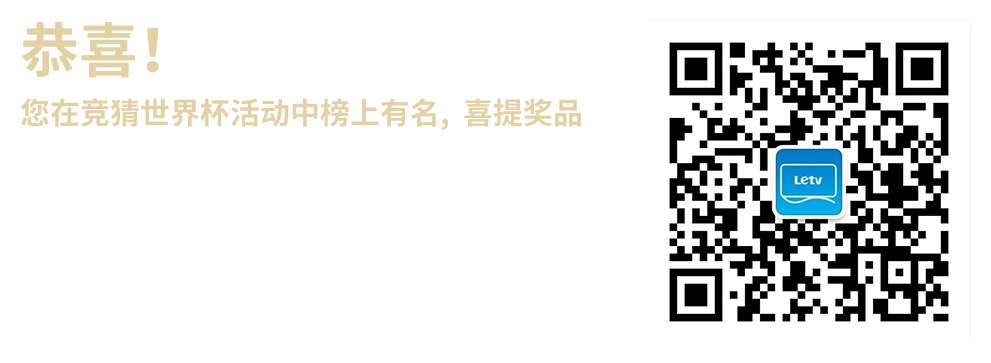
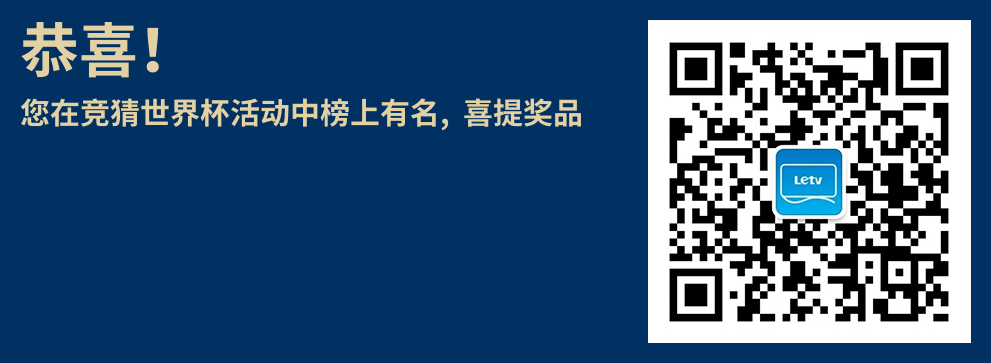
update

diff --git a/src/assets/style/main.less b/src/assets/style/main.less
@@ -196,24 +196,25 @@ a {
 		}
 		>span:nth-child(1){
 			left: 360/@base;
-			z-index: 7;
+			z-index: -4;
 		}
 		>span:nth-child(2){
 			left: 540/@base;
-			z-index: 5;
+			z-index: -5;
 		}
 		>span:nth-child(3){
 			left: 720/@base;
-			z-index: 3;
+			z-index: -6;
 		}
 		>span:nth-child(4){
 			left: 900/@base;
+			z-index: -7
 		}
 		>span.tabon{
 			background: url(../tabon.png) center bottom;
 			background-size: contain;
 		    background-repeat: no-repeat;
-		    z-index: 10;
+		    z-index: -1;
 		    top:-15/@base;
 		    height: 160/@base;
 			width: 236/@base;
@@ -519,6 +520,21 @@ a {
 		}
 		
 	}
+	.guanjun{
+		opacity: 1 !important;
+		position: relative;
+	}
+	.guanjun:before{
+		content: "";
+		background: url(../dui.png) no-repeat center;
+		background-size:contain; 
+		width:100%;
+		height: 50/@base;
+		position: absolute;
+		top:0;
+		left:0;
+		z-index: 11;
+	}
 }
 .explain{
 	color: #b1b1b1;
@@ -688,11 +704,30 @@ a {
 .reward{
 	background: url(../reward.png) no-repeat center;
 	background-size: contain;
+	position: relative;
 	width: 900/@base;
 	height: 360/@base;
 	margin: 0 auto;
 	position: relative;
 	top: 100/@base;
+	p{
+		position: absolute;
+		top:198/@base;
+		left: 20/@base;
+		width:122/@base;
+		height: 30/@base;
+		font-size: 30/@base;
+		color:#fff;
+	}
+	div{
+		position: absolute;
+		top: 243/@base;
+		left: 20/@base;
+		width: 554/@base;
+		font-size: 24/@base;
+		color: #fff;
+		line-height: 36/@base;
+	}
 }
 .loop(@count) when (@count > 0) {
     .loop(@count - 1);

diff --git a/src/pages/index/com/champion.vue b/src/pages/index/com/champion.vue
@@ -2,7 +2,7 @@
   	<div>
 	  	<div class="champion">
 	  		<div class="teambox" v-for="item,index in configData.teamgroup">
-	  			<div class="teamitem"  v-bind:class="{'on focus':setLight(index2,1+index),'chsoen':setChosen(index2,1+index)}" v-for="item2,index2 in item">
+	  			<div class="teamitem"  v-bind:class="{'on focus':setLight(index2,1+index),'chsoen':setChosen(index2,1+index),'guanjun':item2==configData.champion.result}" v-for="item2,index2 in item">
 	  			    <i v-if="setChosen(index2,1+index)"></i>
 		  			<img :src="imgroute+item2+'.png'" alt="">
 		  			<span>{{configData.teamlist[item2]}}</span>

diff --git a/src/pages/index/com/score.vue b/src/pages/index/com/score.vue
@@ -64,6 +64,8 @@
              <p>遗憾，您未能在本次竞猜中进入获奖名次...</p>
         </div>
         <div class="reward" v-if="gametype==7&&score.user.number<10 && score.user.number>0">
+            <p>领奖方式</p>
+            <div>用微信扫码，关注乐视超级电视公众号，回复您的中奖码【{{uid}}】领取奖品</div>
         </div>
   		<div class="explain">
 			<span>规则说明</span>

diff --git a/src/pages/index/index.vue b/src/pages/index/index.vue
@@ -2,7 +2,7 @@
     <div>
     	<rule v-if="showrule"></rule>
         <div v-if="!showrule">
-	        <div class="ad"></div>
+	        <!-- <div class="ad"></div> -->
 			<div class="title"></div>
 		  	<div class="main">
 				<div class="tab">
@@ -247,8 +247,6 @@ export default {
 	  if (getUrlParam("uid")) {
 	    window.UID = getUrlParam("uid");
 	  	getdata();
-	 }else{
-	    relogin()
 	 }
 
 
